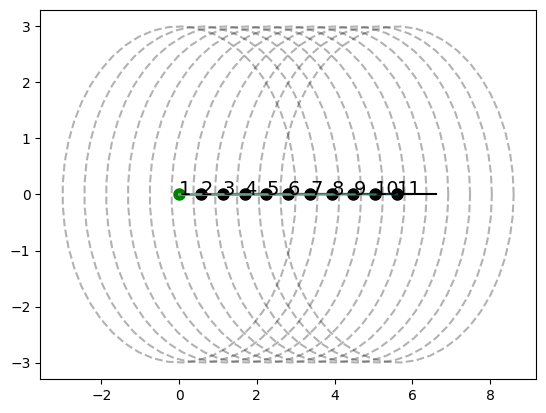
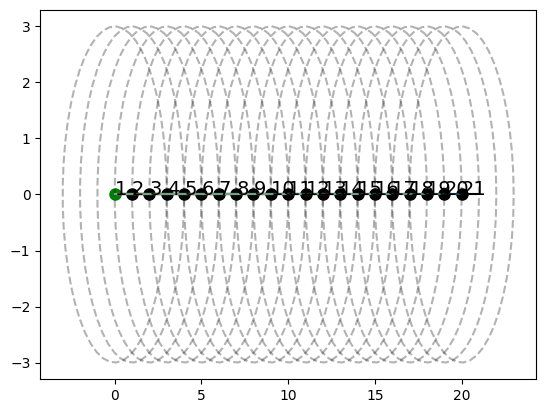
started experimenting with different gains for 1D line exploration

diff --git a/deployment/exploration_strategies/line_explore.py b/deployment/exploration_strategies/line_explore.py
@@ -27,25 +27,34 @@ class LineExplore(ExplorationStrategy):
 
     if self.kind != LineExploreKind.TWO_DIM_GLOBAL:
       """ 1D """
-      RSSIs = np.array([MIN.get_RSSI(b) for b in beacons])
+      xi_is = np.array([MIN.get_xi_to_other_from_model(b) for b in beacons])
       x_is = np.array([b.pos[0] for b in beacons])
       k_is, a_is = None, None
 
       if self.kind == LineExploreKind.ONE_DIM_GLOBAL:
+        """ Default values """
         k_is = np.ones(x_is.shape)
         a_is = np.ones(x_is.shape)
         a_is[-1] = 1 + (1/k_is[-1])*np.sum(k_is[:-1])
+
+        """ Leads to equally spaced drones """
+        k_is = np.zeros(x_is.shape)
+        k_is[-1] = 200*1
+        a_is[-1] = 1
+
         assert k_is[-1]*(a_is[-1] - 1) >= np.sum(k_is[:-1]) and a_is[-1] >= 0,\
-           "Conditions on constants a_i and k_i do not hold. Cannot guarantee x_n_plus_one > x_n"
+           "Conditions on constants a_i and k_i do not hold. Cannot guarantee x_{n+1} > x_{n}"
+
+        
 
       elif self.kind == LineExploreKind.ONE_DIM_LOCAL:
-        neigh_indices, = np.where(RSSIs > self.RSSI_threshold)
+        neigh_indices, = np.where(xi_is > self.RSSI_threshold)
         if len(neigh_indices) == 0:
             print("STOPPED due to no neighs")
             raise AtLandingConditionException
         
         x_is = x_is[neigh_indices]
-        RSSIs = RSSIs[neigh_indices]
+        xi_is = xi_is[neigh_indices]
 
         k_is = np.ones(x_is.shape)
         a_is = np.ones(x_is.shape)
@@ -53,10 +62,15 @@ class LineExplore(ExplorationStrategy):
         j = np.argmax(x_is)
         a_is[j] = 1 + (1/k_is[j])*np.sum(np.delete(k_is, j))
 
+        """ Leads to equally spaced drones """
+        k_is = np.zeros(x_is.shape)
+        k_is[j] = 20*1
+        a_is[j] = 1
+
         assert k_is[j]*(a_is[j] - 1) >= np.sum(np.delete(k_is, j)) and a_is[j] >= 0,\
            "Conditions on constants a_i and k_i do not hold. Cannot guarantee x_n_plus_one > max(x_i) for i in neighbors of nu_n_plus_one"
-        
-      F_n = -np.sum(k_is*(MIN.pos[0] - a_is*(x_is + RSSIs)))
+
+      F_n = -np.sum(k_is*(MIN.pos[0] - a_is*(x_is + xi_is)))
       F_o = 0*gof(self.K_o, MIN, ENV)[0]
       F = np.array([F_n + F_o, 0])
       
@@ -72,4 +86,11 @@ class LineExplore(ExplorationStrategy):
           
     if np.linalg.norm(F) < self.force_threshold:
       raise AtLandingConditionException
+    return F
+
+  @staticmethod
+  def __clamp(F, limit):
+    norm_F = np.linalg.norm(F)
+    if norm_F > limit:
+      return limit*F/norm_F
     return F

diff --git a/beacons/beacon.py b/beacons/beacon.py
@@ -10,11 +10,17 @@ class Beacon():
     Beacon.ID_counter += 1
     return ret
 
-  def __init__(self, range, pos=None):
+  def __init__(self, range, pos=None, xi_max=1, d_perf=1, d_none=2):
     self.range = range
     self.pos = pos
     self.ID = self.get_ID()
     self.neighbors = []
+    """ STUFF FOR XI MODEL """
+    self._xi_max = xi_max
+    self._d_perf = d_perf
+    self._d_none = d_none
+    self._omega = np.pi/(self._d_none - self._d_perf)
+    self._phi = -np.pi*self._d_perf/(self._d_none - self._d_perf)
   
   def insert_into_environment(self, env):
     self.pos = env.entrance_point
@@ -28,6 +34,15 @@ class Beacon():
   
   def get_RSSI(self, other):
     return np.exp(-np.linalg.norm(self.pos - other.pos))
+
+  def get_xi_to_other_from_model(self, other):
+    d = np.linalg.norm(self.pos - other.pos)
+    if d < self._d_perf:
+      return self._xi_max
+    if d > self._d_none:
+      return 0
+    return (self._xi_max/2)*(1+np.cos(self._omega*d + self._phi))
+
 
   def get_vec_to_other(self, other):
     return other.pos - self.pos
@@ -54,5 +69,3 @@ class Beacon():
     )[0]
 
     return self.point, self.annotation, self.radius
-
-

diff --git a/main.py b/main.py
@@ -49,7 +49,7 @@ if __name__ == "__main__":
 
   max_range = 3
 
-  N_mins = 10
+  N_mins = 20
   dt = 10e-4
 
   scs = SCS(max_range)
@@ -127,6 +127,5 @@ if __name__ == "__main__":
       mn.plot(ax)
       mn.plot_traj_line(ax)
     fig.savefig(anim_or_fig_name + ".png", bbox_inches="tight")
-    ax.set_xlim([0, 12])
   plt.show()
 
